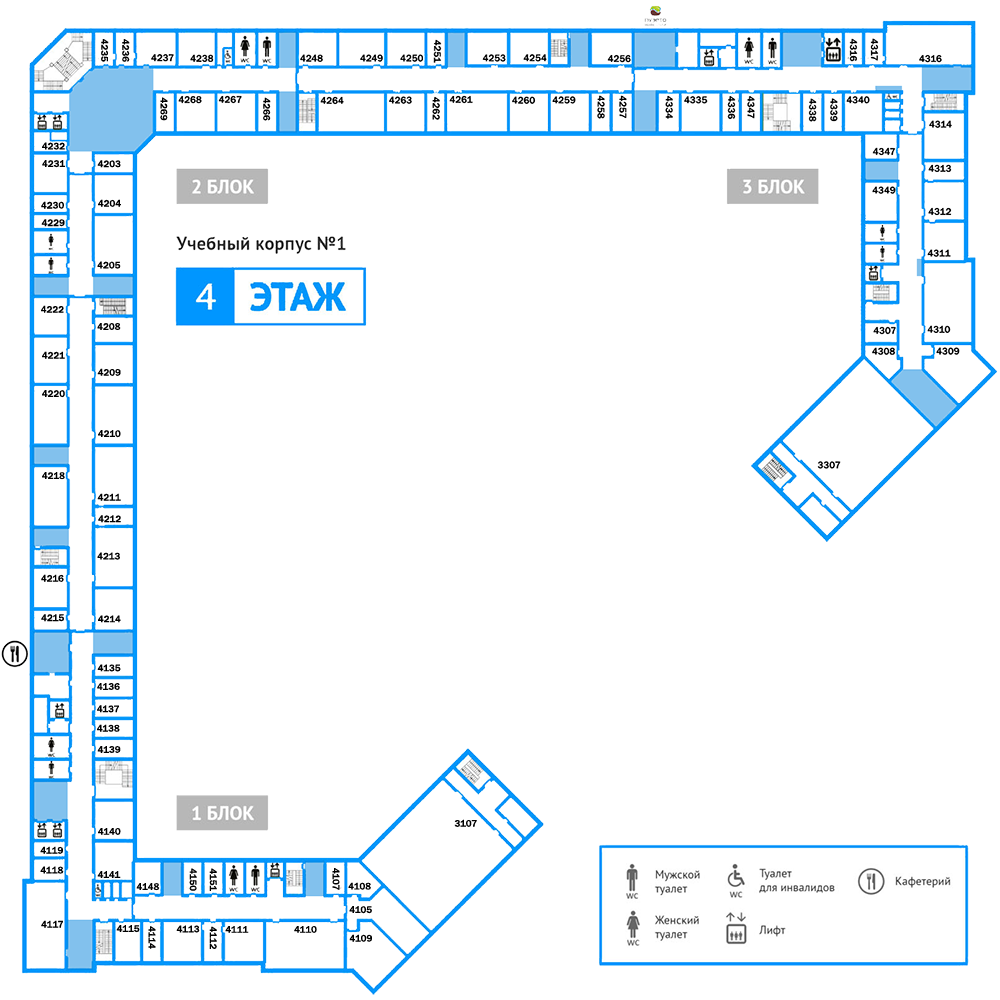
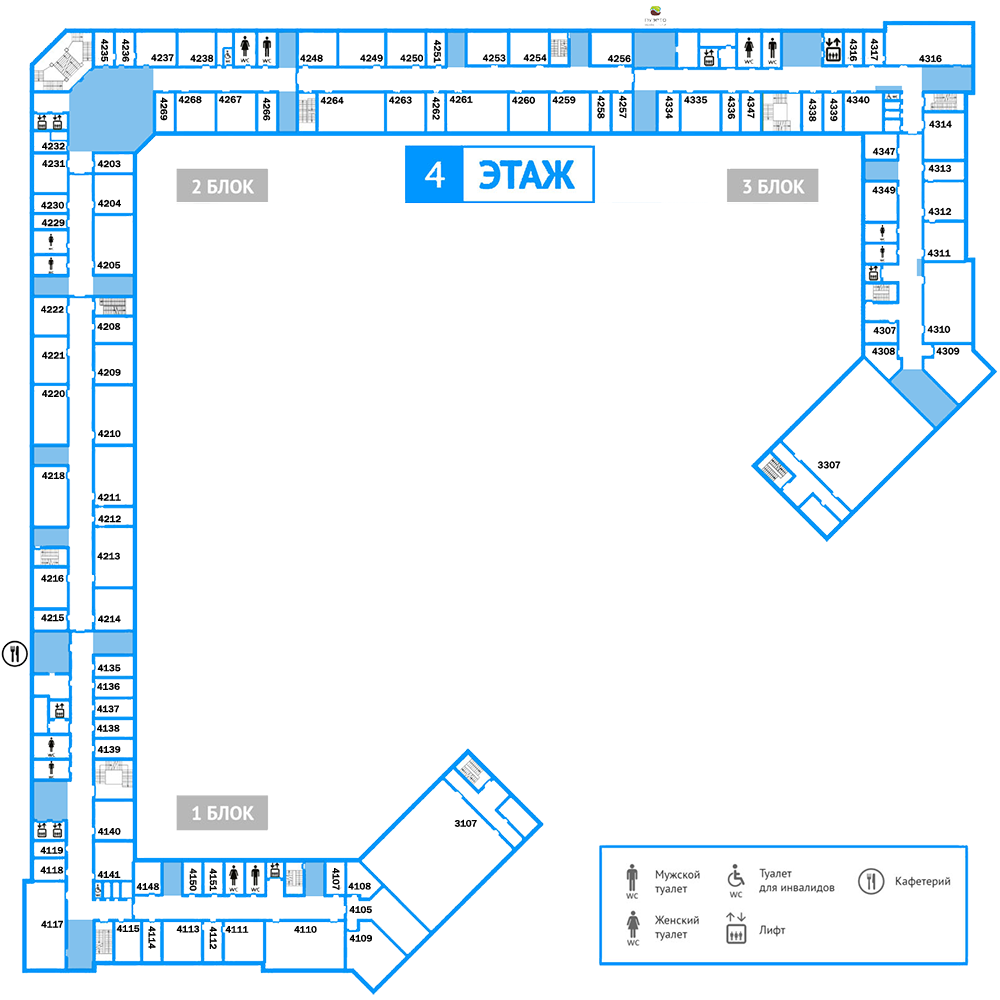
Added new maps

Changed region(s): [[0.155, 0.217, 0.372, 0.341], [0.403, 0.124, 0.589, 0.217]]

diff --git a/third_floor.html b/third_floor.html
@@ -12,33 +12,28 @@
 <span id="asi">lll</span>
 <img src="images/third.png" usemap="#Map" alt="lol">
 <map name="Map">
-  <area shape="poly" onClick="getAndSet(1)" coords="112,170,151,126,248,127,249,230,215,262,111,265">
-  <area shape="poly" onClick="getAndSet(2)" coords="450,70,477,70,478,127,450,128">
-  <area shape="poly" onClick="getAndSet(1)" coords="450,230">
-  <area shape="poly" coords="450,164">
-  <area shape="poly" coords="450,230">
-  <area shape="poly" coords="477,230">
-  <area shape="rect" coords="450,164,478,230">
-  <area shape="rect" coords="720,68,749,128">
-  <area shape="rect" coords="919,70,950,125">
-  <area shape="rect" coords="1022,69,1092,129">
-  <area shape="rect" coords="1021,164,1059,230">
-  <area shape="rect" coords="1262,69,1327,130">
-  <area shape="rect" coords="1407,154,1457,167">
-  <area shape="rect" coords="1490,126,1566,168">
-  <area shape="rect" coords="1394,276,1451,308">
-  <area shape="rect" coords="1450,343,1462,375">
-  <area shape="rect" coords="1424,443,1450,474">
-  <area shape="poly" onClick="getAndSet(1)" coords="1508,706,1599,616,1567,586,1567,573,1450,573,1450,597,1423,595,1411,610">
-  <area shape="rect" coords="469,1485,523,1500">
-  <area shape="rect" coords="262,1407,293,1463">
-  <area shape="rect" coords="52,1033,115,1106">
-  <area shape="rect" coords="150,1035,216,1074">
-  <area shape="rect" coords="54,736,110,771">
-  <area shape="rect" coords="54,869,110,902">
-  <area shape="rect" coords="149,460,216,494">
+  <area shape="poly" onClick="getAndSet(1)" coords="66,156,134,156,154,136,153,70,92,73,68,95" href="#">
+  <area shape="rect" onClick="getAndSet(2)" coords="277,35,297,72" href="#">
+  <area shape="rect" onClick="getAndSet(3)" coords="278,96,295,136" href="#">
+  <area shape="rect" onClick="getAndSet(2)" coords="448,36,466,70" href="#">
+  <area shape="rect" coords="570,34,591,71" href="#">
+  <area shape="rect" coords="634,36,678,73" href="#">
+  <area shape="rect" coords="634,96,659,135" href="#">
+  <area shape="rect" coords="782,36,826,71" href="#">
+  <area shape="rect" coords="923,70,977,95" href="#">
+  <area shape="rect" coords="877,89,903,95" href="#">
+  <area shape="rect" coords="866,164,900,185" href="#">
+  <area shape="rect" coords="901,210,906,227" href="#">
+  <area shape="poly" coords="939,434,877,371,885,364,901,364,901,350,974,349,977,358,995,375" href="#">
+  <area shape="rect" coords="90,280,133,300" href="#">
+  <area shape="rect" coords="32,450,68,472" href="#">
+  <area shape="rect" coords="31,533,67,552" href="#">
+  <area shape="rect" coords="30,637,69,678" href="#">
+  <area shape="rect" coords="93,637,132,658" href="#">
+  <area shape="rect" coords="161,866,182,901" href="#">
+  <area shape="rect" coords="294,918,322,926" href="#">
 </map>	
-	</div>
+</div>
 
 </body>
 </html>

diff --git a/fourth_floor.html b/fourth_floor.html
@@ -9,17 +9,33 @@
 <script async src="script/script.js"></script>
 <div class="image">
 <span id="asi">lll</span>
-<img src="images/fourth.png" usemap="#Map" alt="lol">
-<map name="Map">
-
-  <area shape="rect" coords="278,30,297,68" href="#">
-  <area shape="rect" coords="278,91,296,132" href="#">
+<img src="images/fourth.png" usemap="#one" alt="lol">
+<map name="one">
+  <area shape="rect" onClick="getAndSet(1)" coords="278,30,297,68" href="#">
+  <area shape="rect" onClick="getAndSet(2)" coords="278,91,296,132" href="#">
   <area shape="rect" coords="447,31,466,68" href="#">
   <area shape="rect" coords="571,32,589,67" href="#">
   <area shape="rect" coords="34,277,68,298" href="#">
   <area shape="rect" coords="94,276,134,298" href="#">
+  <area shape="poly" onClick="getAndSet(1)" coords="69,93,94,68,153,69,153,134,134,152,68,152" href="#">
+  <area shape="rect" coords="634,30,675,68" href="#">
+  <area shape="rect" coords="633,91,657,132" href="#">
+  <area shape="rect" coords="782,30,822,66" href="#">
+  <area shape="rect" coords="922,66,971,91" href="#">
+  <area shape="rect" coords="875,86,902,93" href="#">
+  <area shape="rect" coords="864,159,898,180" href="#">
+  <area shape="rect" coords="917,258,922,278" href="#">
+  <area shape="rect" coords="34,446,68,467" href="#">
+  <area shape="rect" coords="34,528,68,547" href="#">
+  <area shape="rect" coords="34,631,69,673" href="#">
+  <area shape="rect" coords="94,631,132,653" href="#">
+  <area shape="rect" coords="32,780,67,822" href="#">
+  <area shape="rect" coords="68,919,93,969" href="#">
+  <area shape="rect" coords="162,862,181,895" href="#">
+  <area shape="rect" coords="305,862,326,896" href="#">
+  <area shape="poly" coords="902,369,923,370,957,406,936,428,890,381" href="#">
 </map>	
-	</div>
+</div>
 
 </body>
 </html>

diff --git a/index.html b/index.html
@@ -9,7 +9,7 @@
 
 <body>
 	<form id="floors">
-		<p><a href="third_floor.html" style="margin-right: 100px"> <img src="images/3.PNG" style="width: 525px; height: 525px"></a>
+		<p><a href="third_floor.html" style="margin-right: 100px; margin-bottom: 10px"> <img src="images/3.PNG" style="width: 525px; height: 525px"></a>
 		<a href="fourth_floor.html"> <img src="images/4.PNG" style="width: 525px; height: 525px"></a>
 			</p>
 		</form>

diff --git a/style/floors_style.css b/style/floors_style.css
@@ -1,10 +1,10 @@
-.image{
+.image {
 		position: relative;
 	}
-	span{
+span {
 		position: absolute;
-		top: 650px;
-		left: 500px;
+		top: 250px;
+		left: 200px;
 		width: 100%;
 		color: black;
 	}
